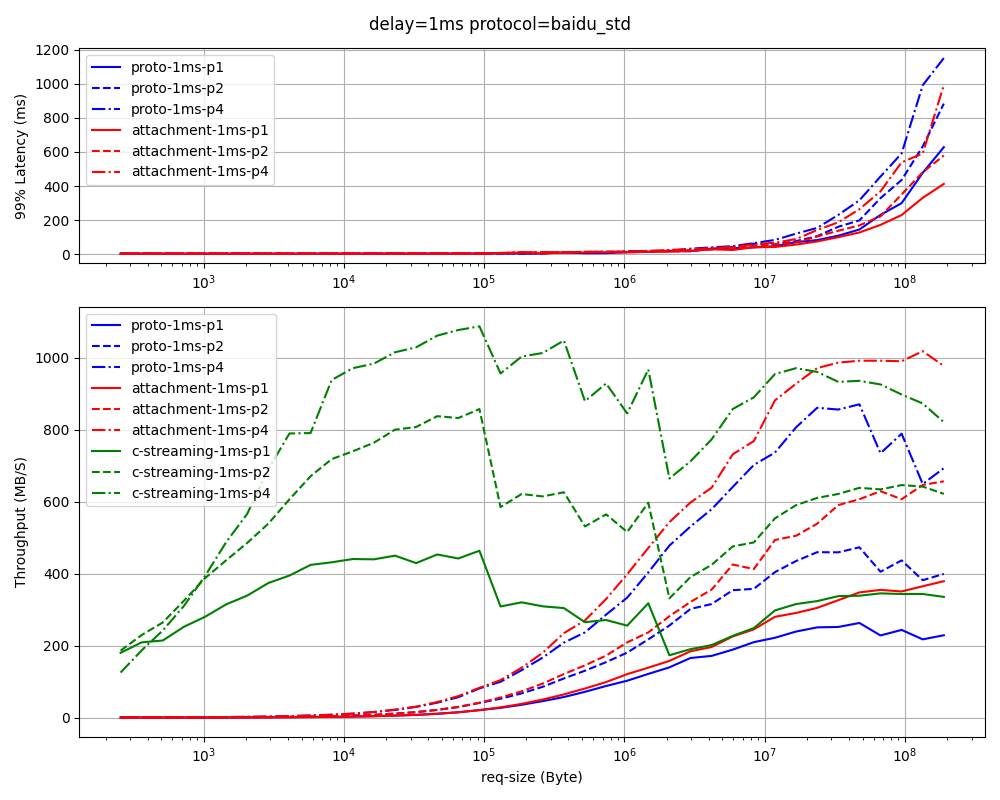
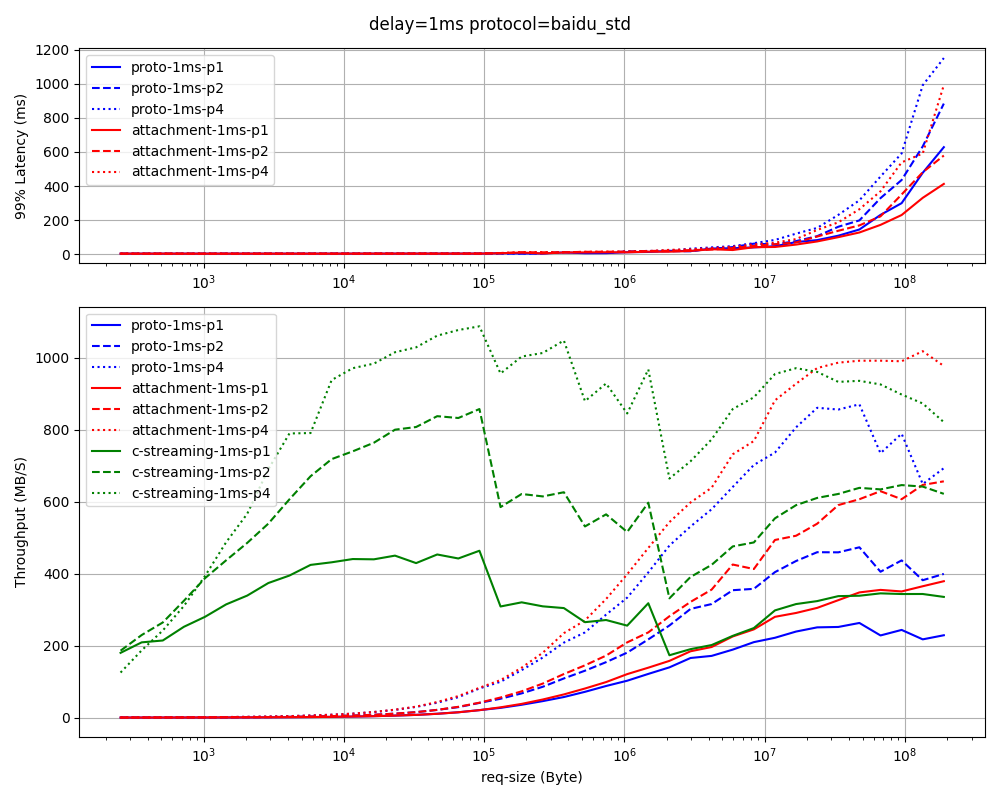
fix

diff --git a/drawer.py b/drawer.py
@@ -116,8 +116,8 @@ def drawIperf():
 
 def drawDelays(parallel):
     colors = ['b', 'r', 'g', 'y', 'm', 'c', 'k']
-    linestyles = ['-', '--', '-.', ':']
-    markers = ['^', 'x', 's', 'v', '+','o', 'D']
+    linestyles = ['-', '--', ':', '-.']
+    # markers = ['^', 'x', 's', 'v', '+','o', 'D']
 
     # Create a new figure and two subplots
     fig, (ax1, ax2) = plt.subplots(2, 1, figsize=(10, 8), height_ratios=[1, 2])
@@ -130,9 +130,9 @@ def drawDelays(parallel):
             test_type = f"{test_labels[i2]}-{d}-p{parallel}"
             color = colors[i2]
             if("delays" in datas[test_type]):
-                ax1.plot(x_axis[test_type], datas[test_type]["delays"],linestyle = linestyles[i1], marker=markers[i1], label=f"{test_type}", color=color)
+                ax1.plot(x_axis[test_type], datas[test_type]["delays"],linestyle = linestyles[i1], label=f"{test_type}", color=color)
             if("speed" in datas[test_type]):
-                ax2.plot(x_axis[test_type], datas[test_type]["speed"],linestyle = linestyles[i1], marker=markers[i1], label=f"{test_type}", color=color)
+                ax2.plot(x_axis[test_type], datas[test_type]["speed"],linestyle = linestyles[i1], label=f"{test_type}", color=color)
 
     if(x_axis[test_type][-1] / x_axis[test_type][0] > 100):
         ax1.set_xscale('log')
@@ -153,8 +153,8 @@ def drawDelays(parallel):
 
 def drawParallel(delay):
     colors = ['b', 'r', 'g', 'y', 'm', 'c', 'k']
-    linestyles = ['-', '--', '-.', ':']
-    markers = ['^', 'x', 'o', 'v', '+','o', 'D']
+    linestyles = ['-', '--', ':', '-.']
+    # markers = ['^', 'x', 'o', 'v', '+','o', 'D']
 
     # Create a new figure and two subplots
     fig, (ax1, ax2) = plt.subplots(2, 1, figsize=(10, 8), height_ratios=[1, 2])
